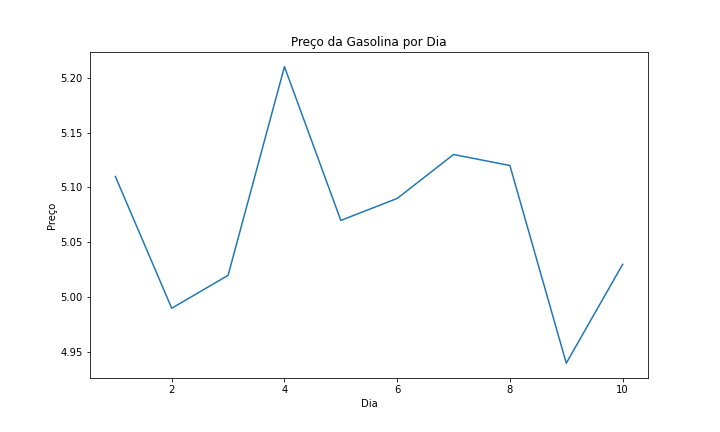
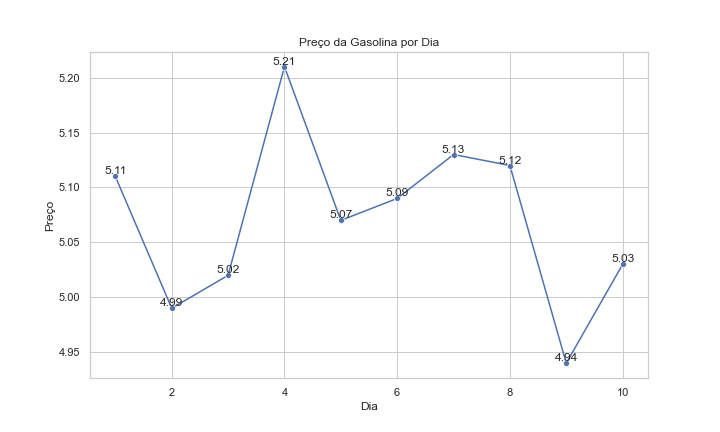
feat: alteraçõs de gráfico

diff --git a/gasolina.py b/gasolina.py
@@ -1,15 +1,21 @@
 
 import pandas as pd
+import seaborn as sns
 import matplotlib.pyplot as plt
 
 # Carrega os dados do arquivo CSV
 df = pd.read_csv('gasolina.csv')
 
-# Define o tamanho do gráfico
-plt.figure(figsize=(10, 6))
+# Define o estilo do gráfico utilizando o Seaborn
+sns.set(style='whitegrid')
 
-# Plota o gráfico de linha com o dia no eixo x e o preço no eixo y
-plt.plot(df['dia'], df['venda'])
+# Cria o gráfico de linha com o dia no eixo x e o preço no eixo y
+plt.figure(figsize=(10, 6))
+sns.lineplot(x='dia', y='venda', data=df, marker='o')
+
+# Adiciona rótulos nos pontos de dados
+for i, row in df.iterrows():
+    plt.text(row['dia'], row['venda'], str(row['venda']), ha='center', va='bottom')
 
 # Define o título do gráfico e dos eixos
 plt.title('Preço da Gasolina por Dia')
